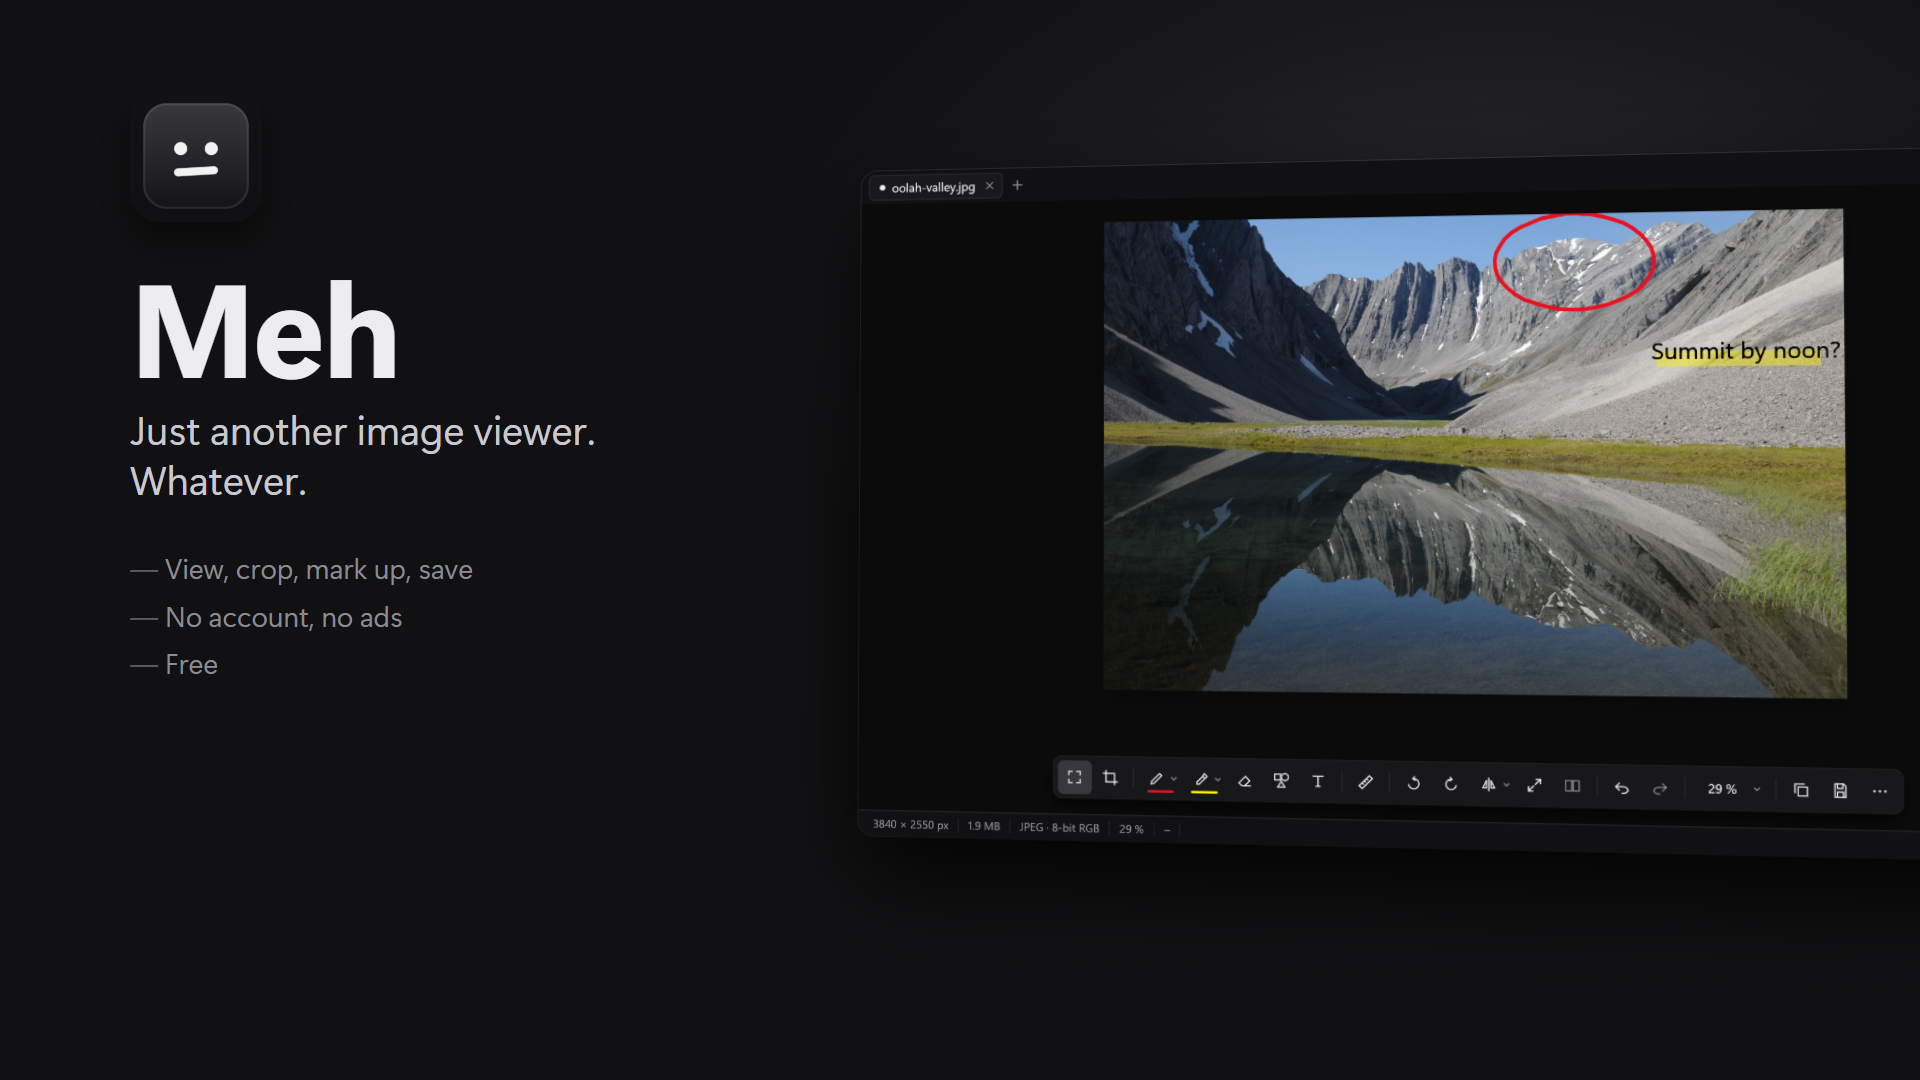
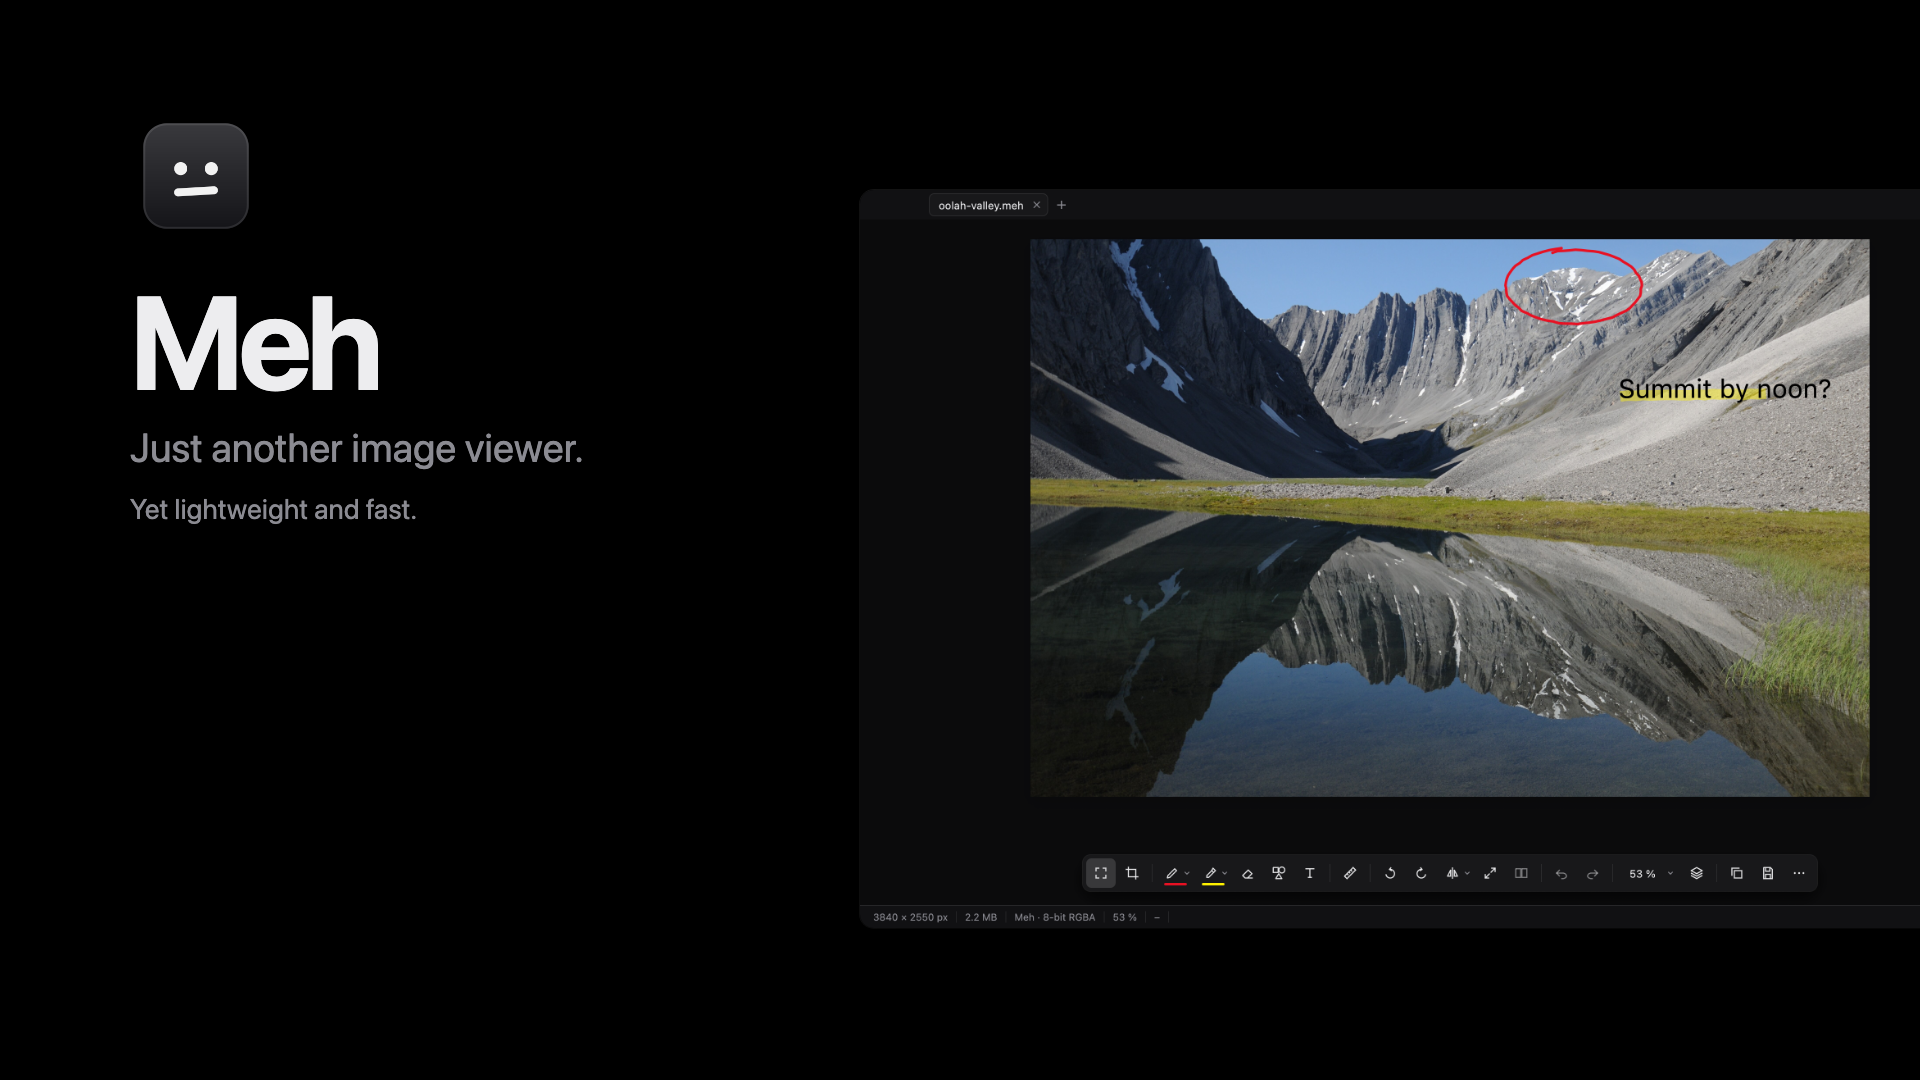
Website: use the new lines of the store listings
The home page now opens like the store listings: "Just another image
viewer." over "Yet lightweight and fast." The share image is the new
store hero art.

- No "no account" claims, because Meh may sync through an account
  later. "No ads" and "no data collection" stay.
- No "no layers": version 0.3.0 has a Layers panel.

diff --git a/public/index.html b/public/index.html
@@ -7,10 +7,10 @@
 <meta name="theme-color" content="#fafafa" media="(prefers-color-scheme: light)">
 <meta name="theme-color" content="#111113" media="(prefers-color-scheme: dark)">
 <title>Meh: just another image viewer</title>
-<meta name="description" content="Meh is a fast image viewer for Windows and macOS, with the everyday edits: crop, rotate, resize, mark up, measure, and stitch. No account, no ads, and no data collection.">
+<meta name="description" content="Meh is a fast image viewer for Windows and macOS, with the everyday edits: crop, rotate, resize, mark up, measure, and stitch. No ads and no data collection.">
 <link rel="canonical" href="https://meh-app.com/">
 <meta property="og:title" content="Meh">
-<meta property="og:description" content="Just another image viewer. Whatever.">
+<meta property="og:description" content="Just another image viewer. Yet lightweight and fast.">
 <meta property="og:url" content="https://meh-app.com/">
 <meta property="og:image" content="https://meh-app.com/assets/hero.png">
 <link rel="icon" href="assets/favicon.png" sizes="64x64">
@@ -30,10 +30,10 @@
 <header class="hero">
   <img class="icon" src="assets/icon.svg" alt="" width="104" height="104">
   <h1>Meh</h1>
-  <p class="tag">Just another image viewer. Whatever.</p>
-  <p class="sub">Opens images fast, and handles the small fixes.</p>
+  <p class="tag">Just another image viewer.</p>
+  <p class="sub">Yet lightweight and fast.</p>
   <div class="get"><a class="badge" href="https://apps.microsoft.com/detail/9NHWZRF0MXQX?referrer=appbadge&amp;mode=full"><img src="assets/ms-badge.svg" alt="Get it from Microsoft" width="161" height="44"></a><span>Mac App Store <em>soon</em></span></div>
-  <p class="fine">Free for Windows and Mac. No account, no ads, and no data collection.</p>
+  <p class="fine">Free for Windows and Mac. No ads and no data collection.</p>
 </header>
 
 <div class="stage">
@@ -132,7 +132,7 @@
 <section class="wrap chapter" id="edit">
   <p class="eyebrow">For the small fixes</p>
   <h2>And it fixes the usual things.</h2>
-  <p>Crop, turn, resize, mark up, measure, and stitch. It is not a full photo editor, though: no layers, no exposure or curves, and no camera RAW files.</p>
+  <p>Crop, turn, resize, mark up, measure, and stitch. It is not a full photo editor, though: no exposure or curves, and no camera RAW files.</p>
 </section>
 
 <section class="wrap feat" id="crop">
@@ -259,7 +259,7 @@
   </div>
   <div>
     <h3>What it doesn't have</h3>
-    <ul class="nots"><li>Accounts</li><li>Ads</li><li>Data collection</li><li>Internet connection</li></ul>
+    <ul class="nots"><li>Ads</li><li>Data collection</li><li>Internet connection</li></ul>
     <p>Your images stay on your device. <a href="privacy">Read the privacy policy</a>.</p>
   </div>
 </section>
